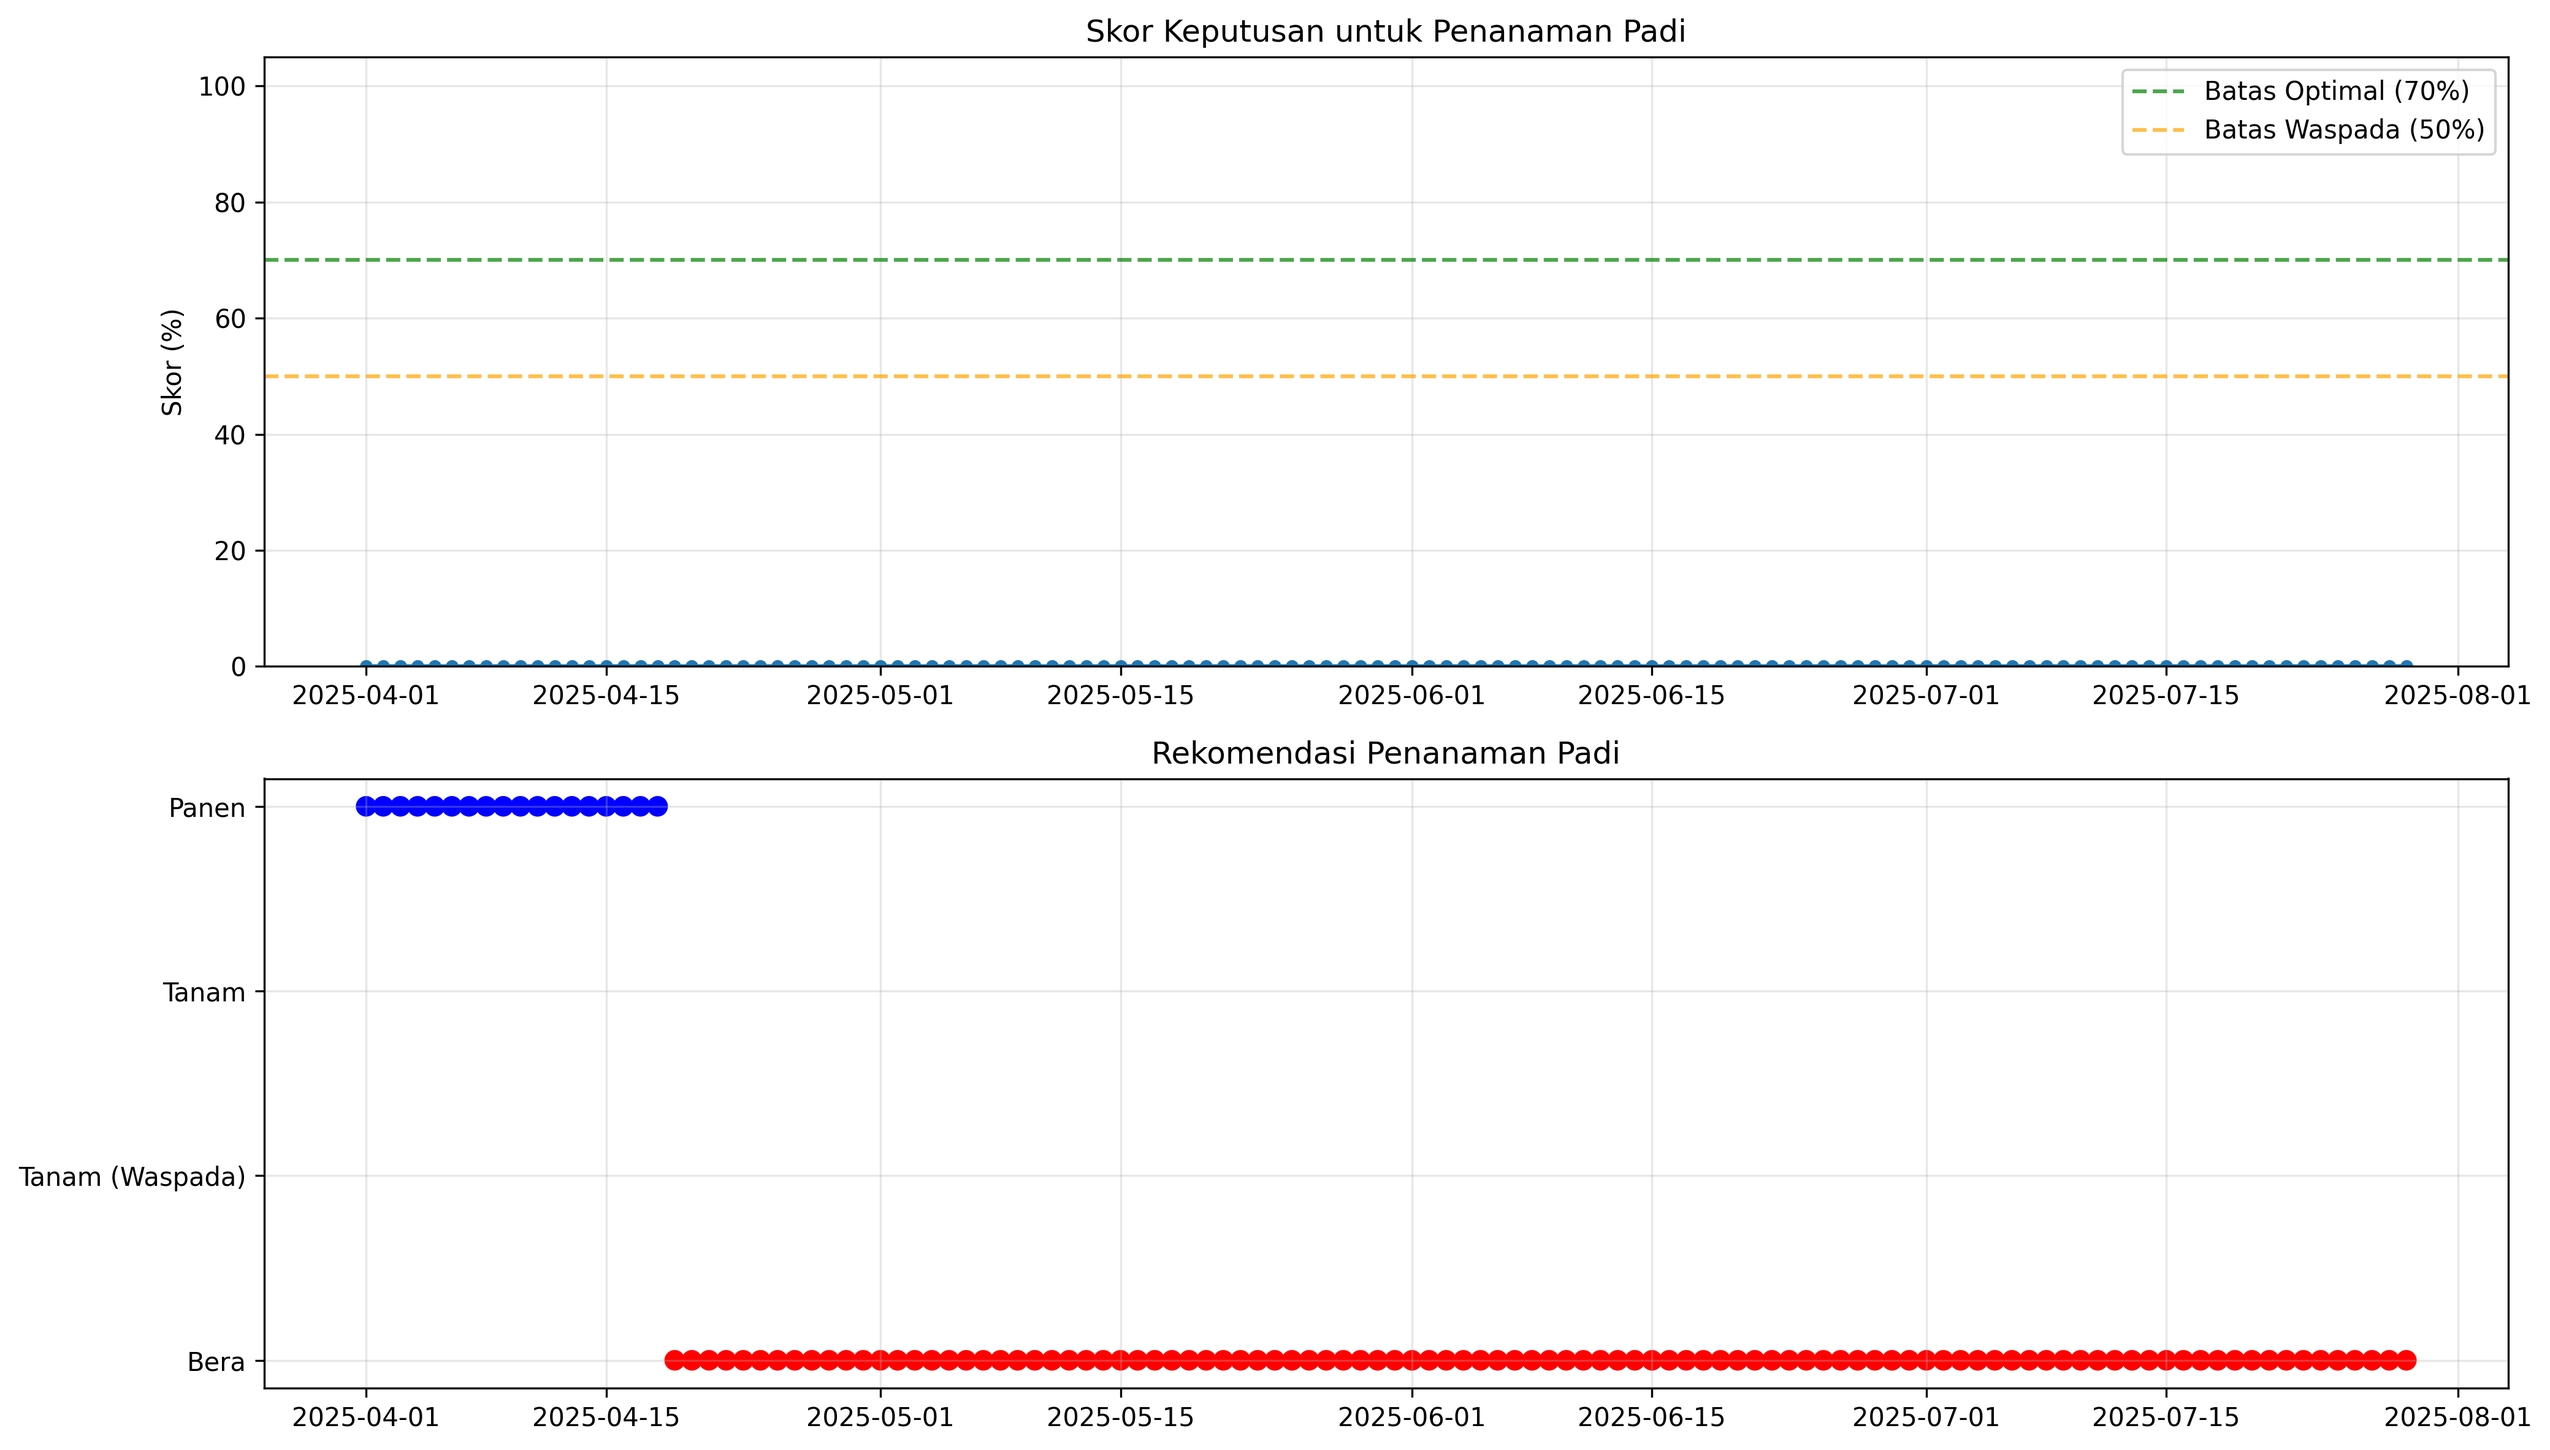
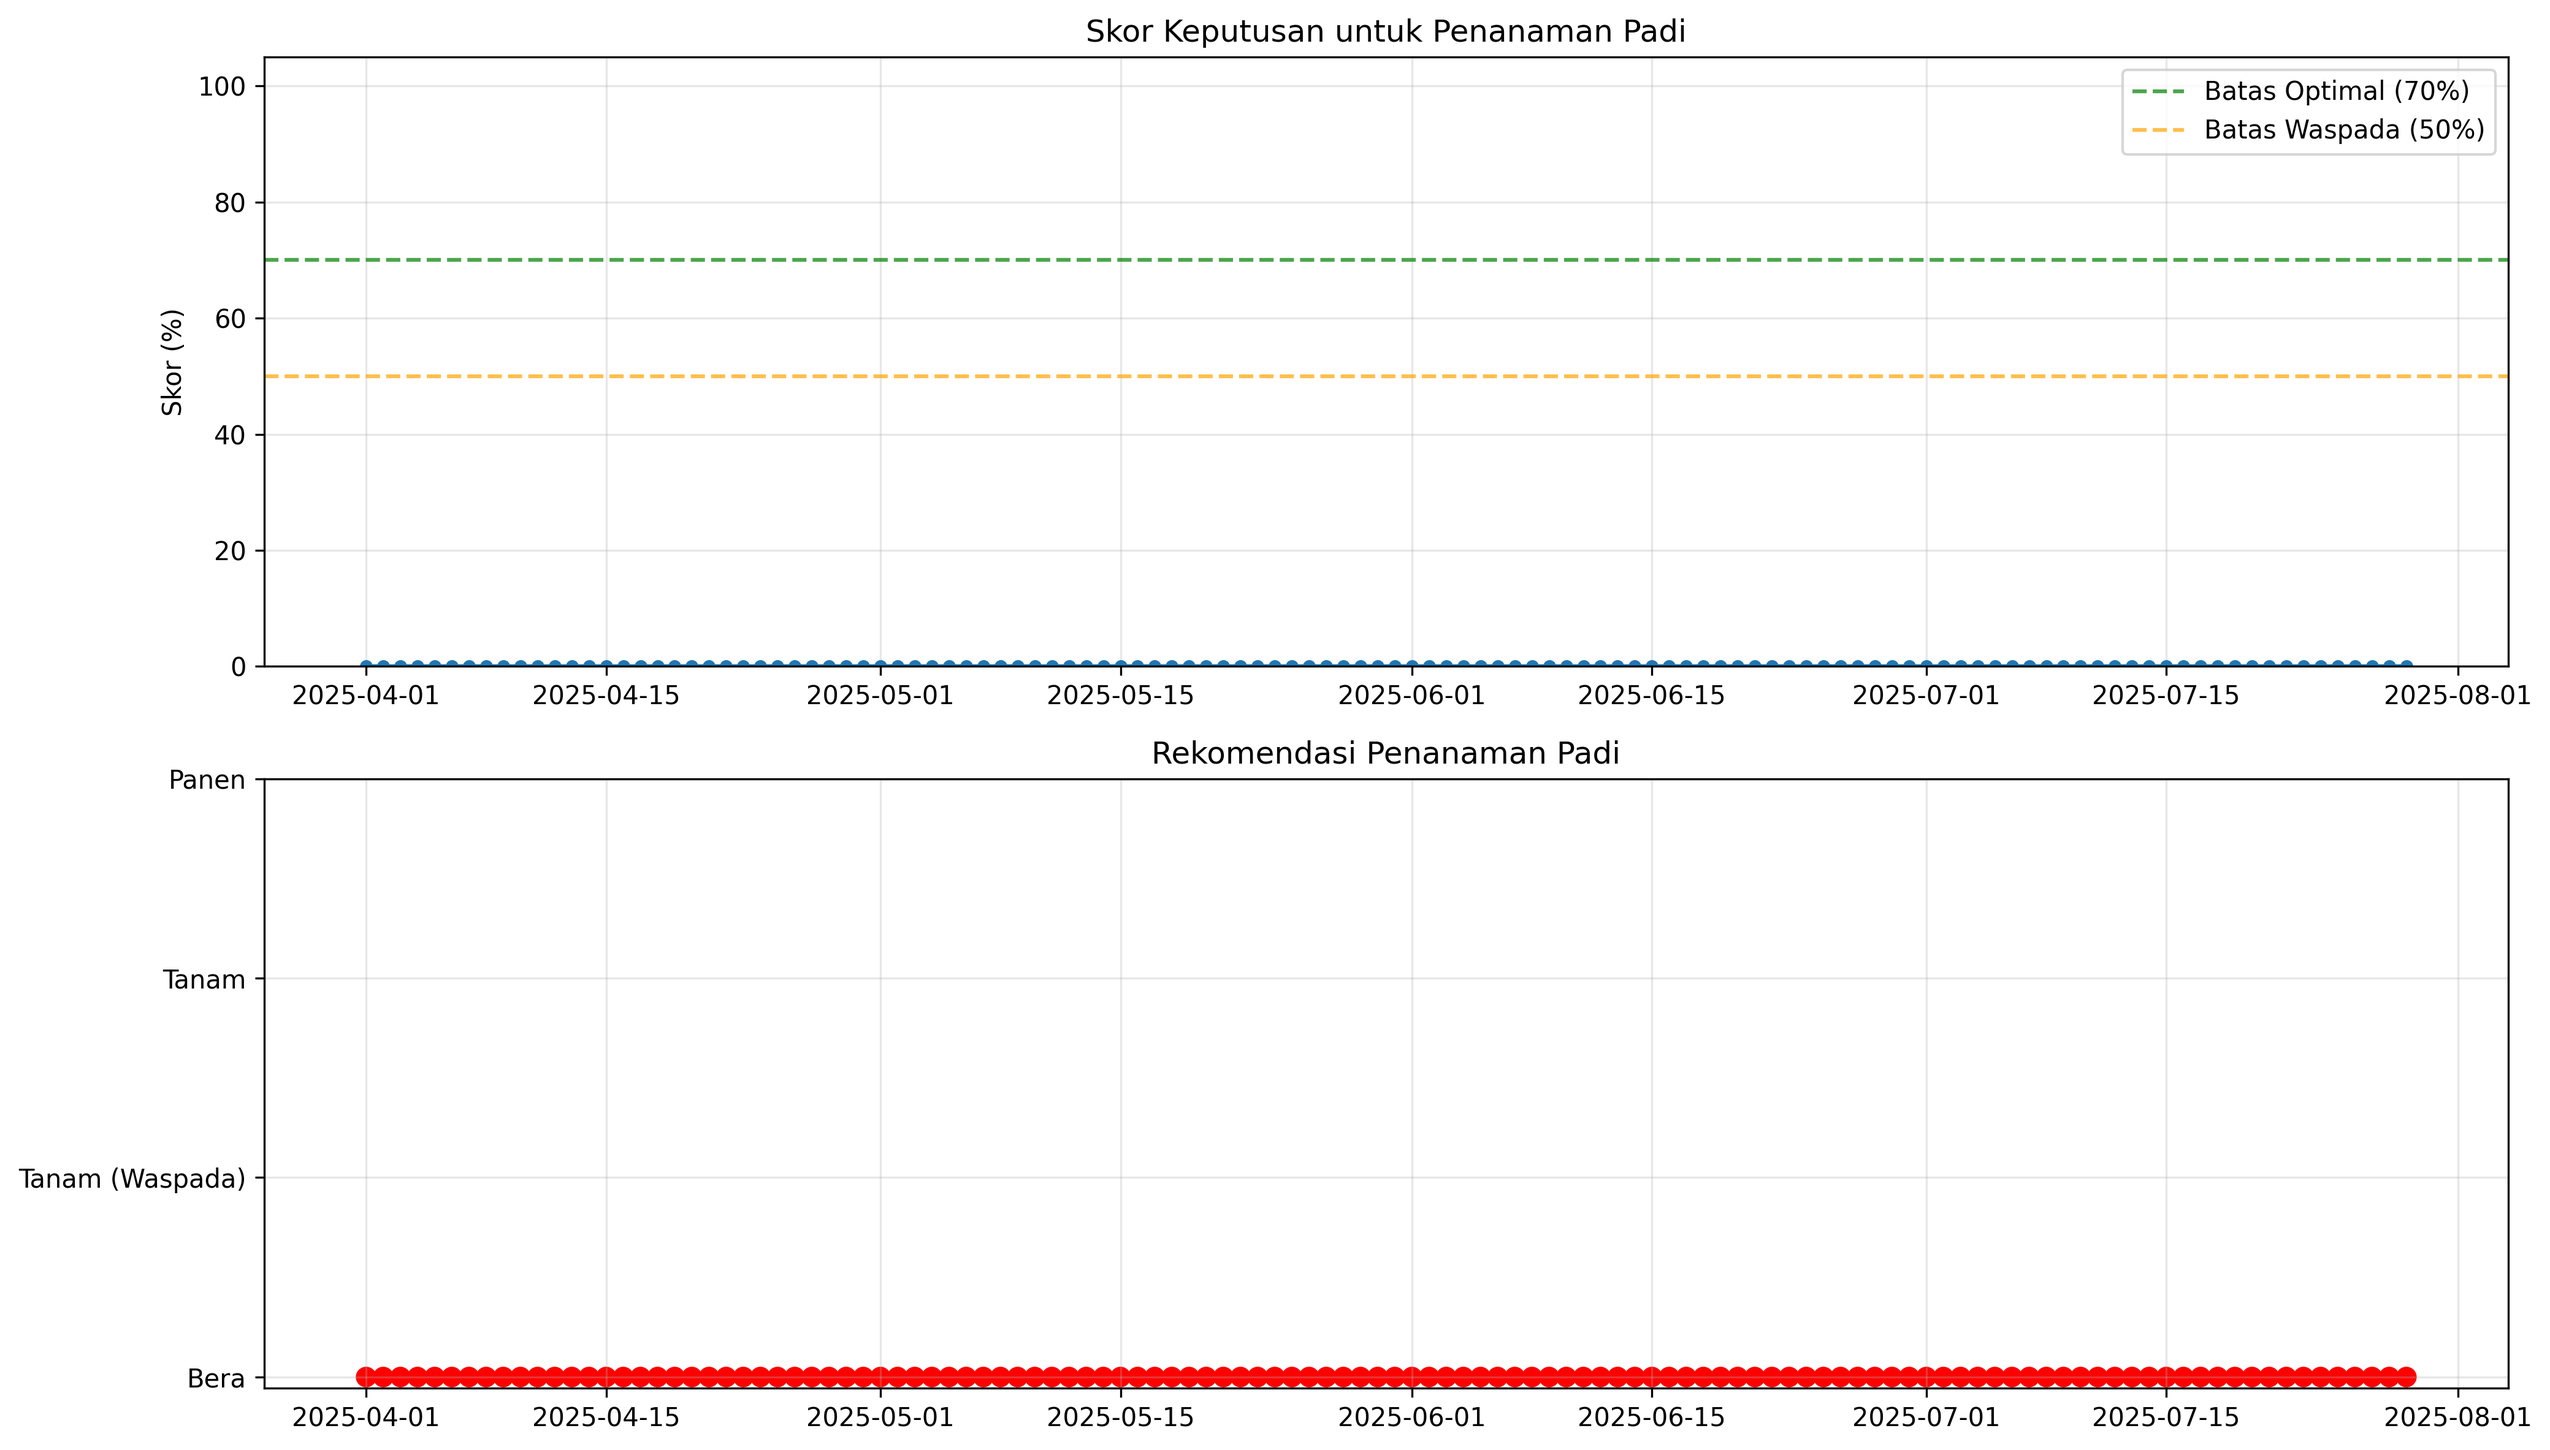
basecode bmkg rice planting new_2

diff --git a/Dataset/Data BMKG/preprocessing/new_2.py b/Dataset/Data BMKG/preprocessing/new_2.py
@@ -391,49 +391,72 @@ def visualize_decisions(decision_df):
     plt.tight_layout()
     save_plt('rice_planting_decisions_timeline')
     
-    # Plot weather parameters distribution by decision
-    plt.figure(figsize=(16, 12))
-    
-    # Check if there are any categories to plot
-    # Filter out empty categories first
-    decision_groups = decision_df.groupby('Keputusan').filter(lambda x: len(x) > 0)
-    
-    if len(decision_groups) > 0:
-        # Rainfall by decision - only create if we have data to plot
-        plt.subplot(2, 2, 1)
-        sns.boxplot(x='Keputusan', y='RR', data=decision_groups)
-        plt.title('Curah Hujan Berdasarkan Keputusan')
-        plt.axhline(y=2, color='orange', linestyle='--', label='Batas Kering (2mm)')
-        plt.axhline(y=15, color='red', linestyle='--', label='Batas Banjir (15mm)')
-        plt.legend()
+    # Create a second visualization for parameter distributions
+    try:
+        # Get unique decisions and skip plotting if we don't have at least one value for each
+        unique_decisions = decision_df['Keputusan'].unique()
         
-        # Temperature by decision
-        plt.subplot(2, 2, 2)
-        sns.boxplot(x='Keputusan', y='TAVG', data=decision_groups)
-        plt.title('Suhu Rata-rata Berdasarkan Keputusan')
-        plt.axhline(y=20, color='blue', linestyle='--', label='Batas Dingin (20°C)')
-        plt.axhline(y=35, color='red', linestyle='--', label='Batas Panas (35°C)')
-        plt.legend()
+        if len(unique_decisions) > 0:
+            plt.figure(figsize=(16, 12))
+            
+            # Use manual plotting instead of seaborn for more control
+            plt.subplot(2, 2, 1)
+            for i, decision in enumerate(unique_decisions):
+                subset = decision_df[decision_df['Keputusan'] == decision]['RR']
+                if len(subset) > 0:  # Only plot if we have data
+                    plt.boxplot(subset, positions=[i+1], widths=0.6)
+            plt.xticks(range(1, len(unique_decisions)+1), unique_decisions)
+            plt.title('Curah Hujan Berdasarkan Keputusan')
+            plt.axhline(y=2, color='orange', linestyle='--', label='Batas Kering (2mm)')
+            plt.axhline(y=15, color='red', linestyle='--', label='Batas Banjir (15mm)')
+            plt.legend()
+            
+            # Temperature by decision
+            plt.subplot(2, 2, 2)
+            for i, decision in enumerate(unique_decisions):
+                subset = decision_df[decision_df['Keputusan'] == decision]['TAVG']
+                if len(subset) > 0:  # Only plot if we have data
+                    plt.boxplot(subset, positions=[i+1], widths=0.6)
+            plt.xticks(range(1, len(unique_decisions)+1), unique_decisions)
+            plt.title('Suhu Rata-rata Berdasarkan Keputusan')
+            plt.axhline(y=20, color='blue', linestyle='--', label='Batas Dingin (20°C)')
+            plt.axhline(y=35, color='red', linestyle='--', label='Batas Panas (35°C)')
+            plt.legend()
+            
+            # Humidity by decision
+            plt.subplot(2, 2, 3)
+            for i, decision in enumerate(unique_decisions):
+                subset = decision_df[decision_df['Keputusan'] == decision]['RH_AVG']
+                if len(subset) > 0:  # Only plot if we have data
+                    plt.boxplot(subset, positions=[i+1], widths=0.6)
+            plt.xticks(range(1, len(unique_decisions)+1), unique_decisions)
+            plt.title('Kelembaban Relatif Berdasarkan Keputusan')
+            plt.axhline(y=60, color='orange', linestyle='--', label='Batas Kering (60%)')
+            plt.axhline(y=90, color='blue', linestyle='--', label='Batas Lembab (90%)')
+            plt.legend()
+            
+            # Score by decision
+            plt.subplot(2, 2, 4)
+            for i, decision in enumerate(unique_decisions):
+                subset = decision_df[decision_df['Keputusan'] == decision]['Skor']
+                if len(subset) > 0:  # Only plot if we have data
+                    plt.boxplot(subset, positions=[i+1], widths=0.6)
+            plt.xticks(range(1, len(unique_decisions)+1), unique_decisions)
+            plt.title('Distribusi Skor Berdasarkan Keputusan')
+            
+            plt.tight_layout()
+            save_plt('decision_parameters_distribution')
+        else:
+            print("Warning: No unique decisions found for boxplot visualization")
+    except Exception as e:
+        print(f"Error in boxplot visualization: {str(e)}")
+        # Create a simple figure with error message
+        plt.figure(figsize=(10, 6))
+        plt.text(0.5, 0.5, f'Visualisasi boxplot gagal: {str(e)}',
+                ha='center', va='center', fontsize=12)
+        plt.tight_layout()
+        save_plt('decision_parameters_distribution_error')
         
-        # Humidity by decision
-        plt.subplot(2, 2, 3)
-        sns.boxplot(x='Keputusan', y='RH_AVG', data=decision_groups)
-        plt.title('Kelembaban Relatif Berdasarkan Keputusan')
-        plt.axhline(y=60, color='orange', linestyle='--', label='Batas Kering (60%)')
-        plt.axhline(y=90, color='blue', linestyle='--', label='Batas Lembab (90%)')
-        plt.legend()
-        
-        # Score by decision
-        plt.subplot(2, 2, 4)
-        sns.boxplot(x='Keputusan', y='Skor', data=decision_groups)
-        plt.title('Distribusi Skor Berdasarkan Keputusan')
-    else:
-        plt.text(0.5, 0.5, 'Tidak ada data keputusan yang cukup untuk visualisasi',
-                ha='center', va='center', fontsize=16)
-    
-    plt.tight_layout()
-    save_plt('decision_parameters_distribution')
-
 def main():
     """Main function to run the Rice Planting Decision Support System."""
     print("=" * 80)
